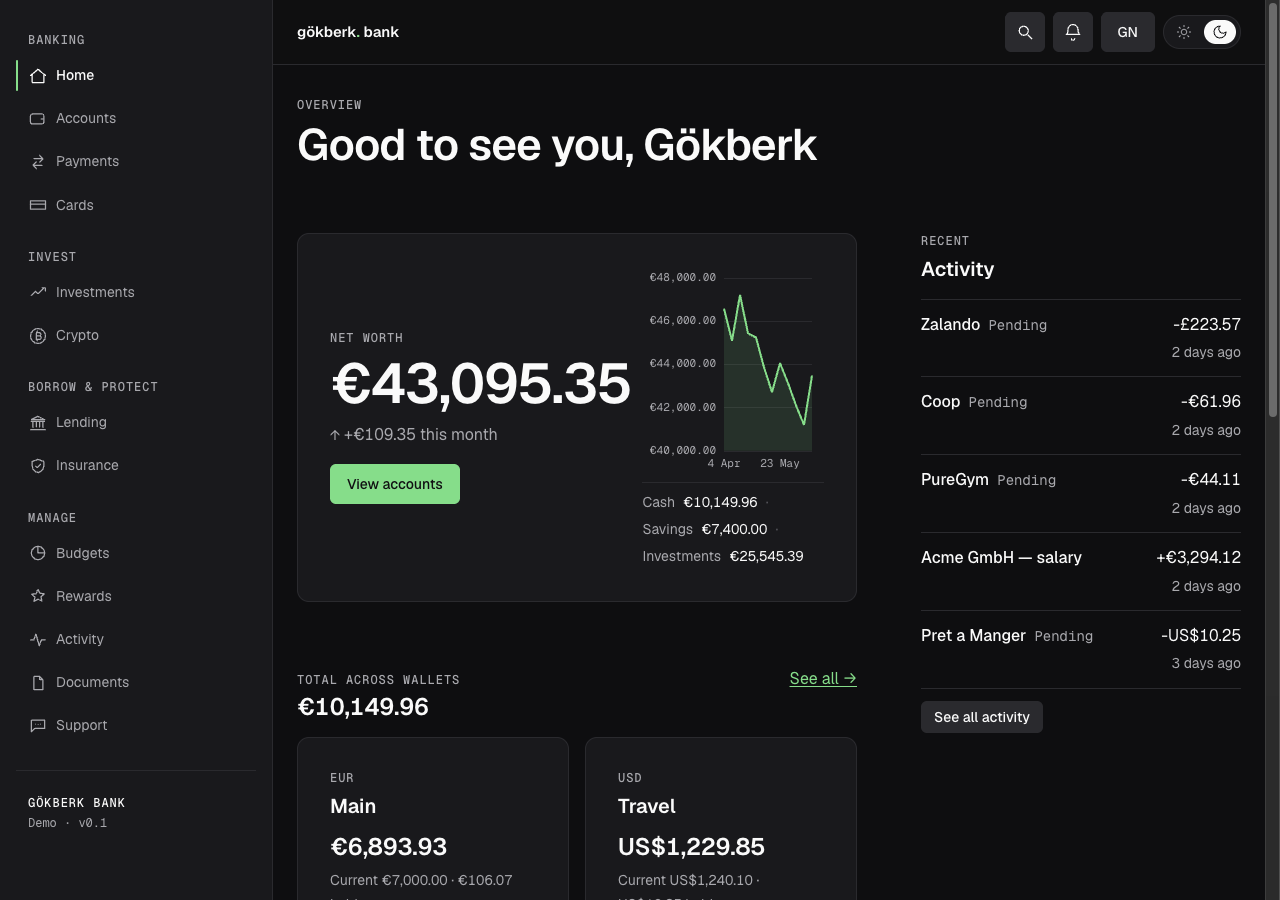
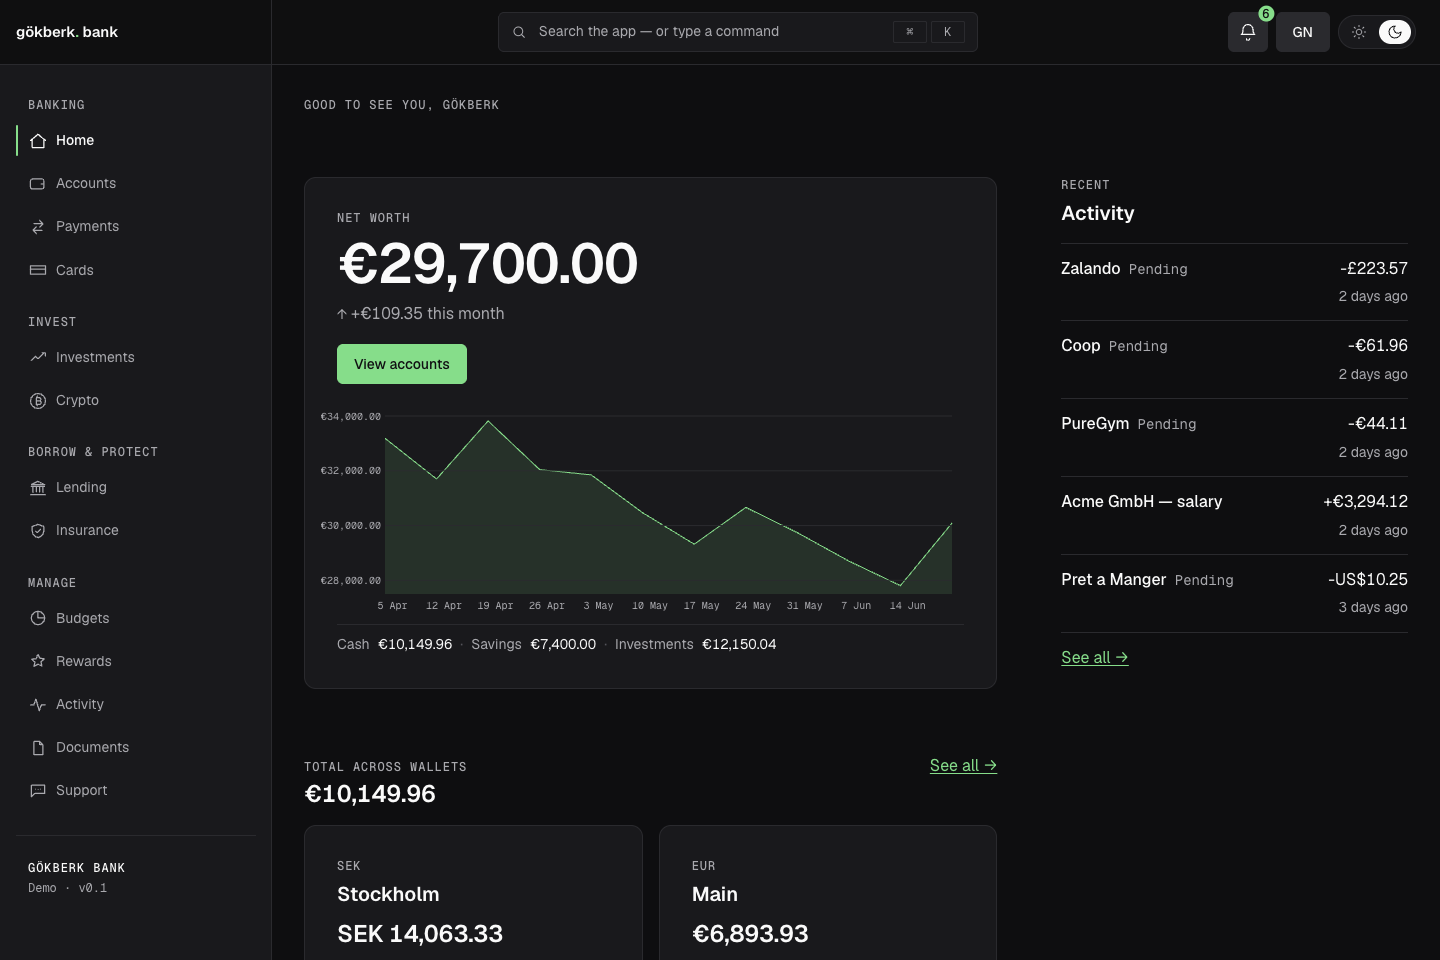
fix(shell): hide mobile theme toggle, refresh README screenshots (#8)
* docs(readme): refresh home dashboard screenshots

Prior captures were from June 30 and predate mobile-nav, layerchart,
and investing-depth work — screenshots now reflect current UI.

* fix(shell): hide theme toggle from navbar on mobile

The light/dark switch in the top-right actions cluster is redundant
screen-width cost on small screens — the same control already exists
at Settings → Appearance. Hidden below the existing 40rem mobile
breakpoint; tablet and desktop are unaffected.

diff --git a/src/lib/components/shell/AppNavbar.svelte b/src/lib/components/shell/AppNavbar.svelte
@@ -128,7 +128,7 @@
 			<gok-menu-item value="signout">Sign out</gok-menu-item>
 		</gok-menu>
 
-		<gok-theme-switch compact label="Theme"></gok-theme-switch>
+		<gok-theme-switch compact label="Theme" class="theme-switch"></gok-theme-switch>
 	</div>
 </header>
 
@@ -276,12 +276,19 @@
 	}
 
 	/* Mobile (<40rem): the rail is hidden, so the top bar is a single full-width row —
-	   the brand returns to its natural width with no divider. */
+	   the brand returns to its natural width with no divider. The theme switch drops out
+	   too — it's a duplicate control at this size, and Settings → Appearance already
+	   offers the same choice, so it's not worth the inline-space cost in the actions
+	   cluster. */
 	@media (max-width: 39.999rem) {
 		.brand {
 			inline-size: auto;
 			border-inline-end: none;
 			padding-inline: var(--gok-space-400);
+		}
+
+		.theme-switch {
+			display: none;
 		}
 	}
 
